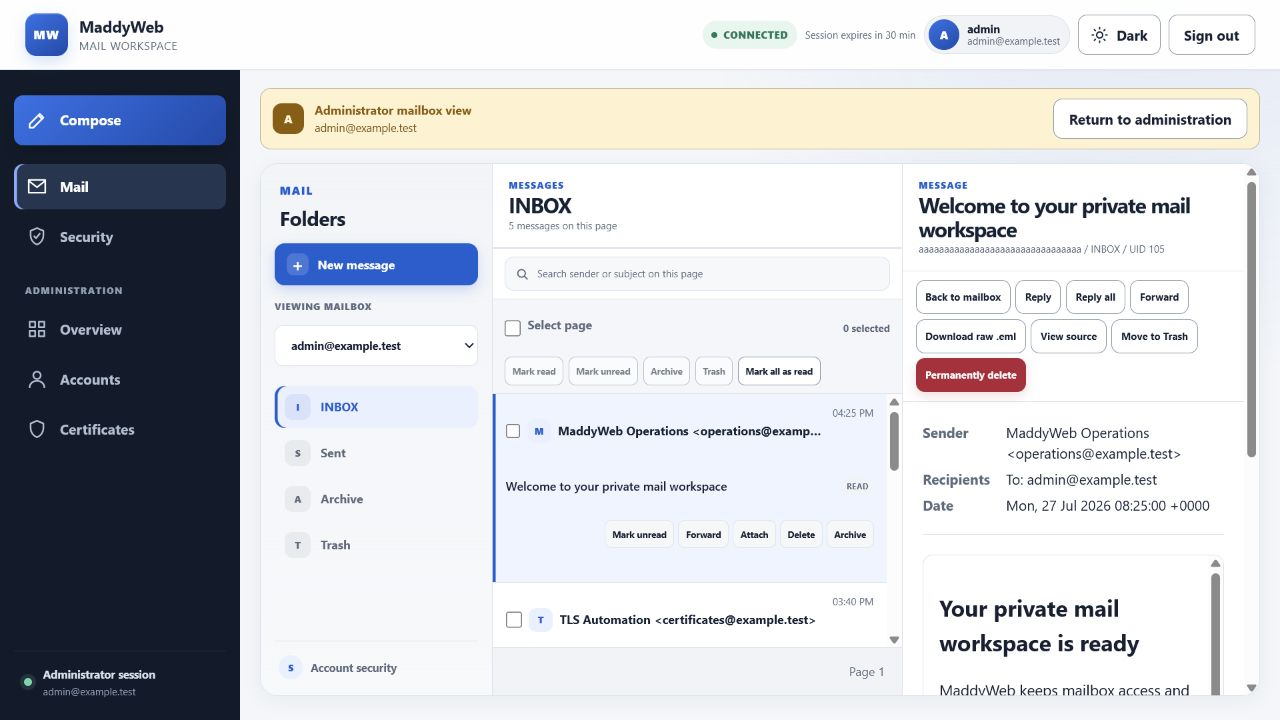
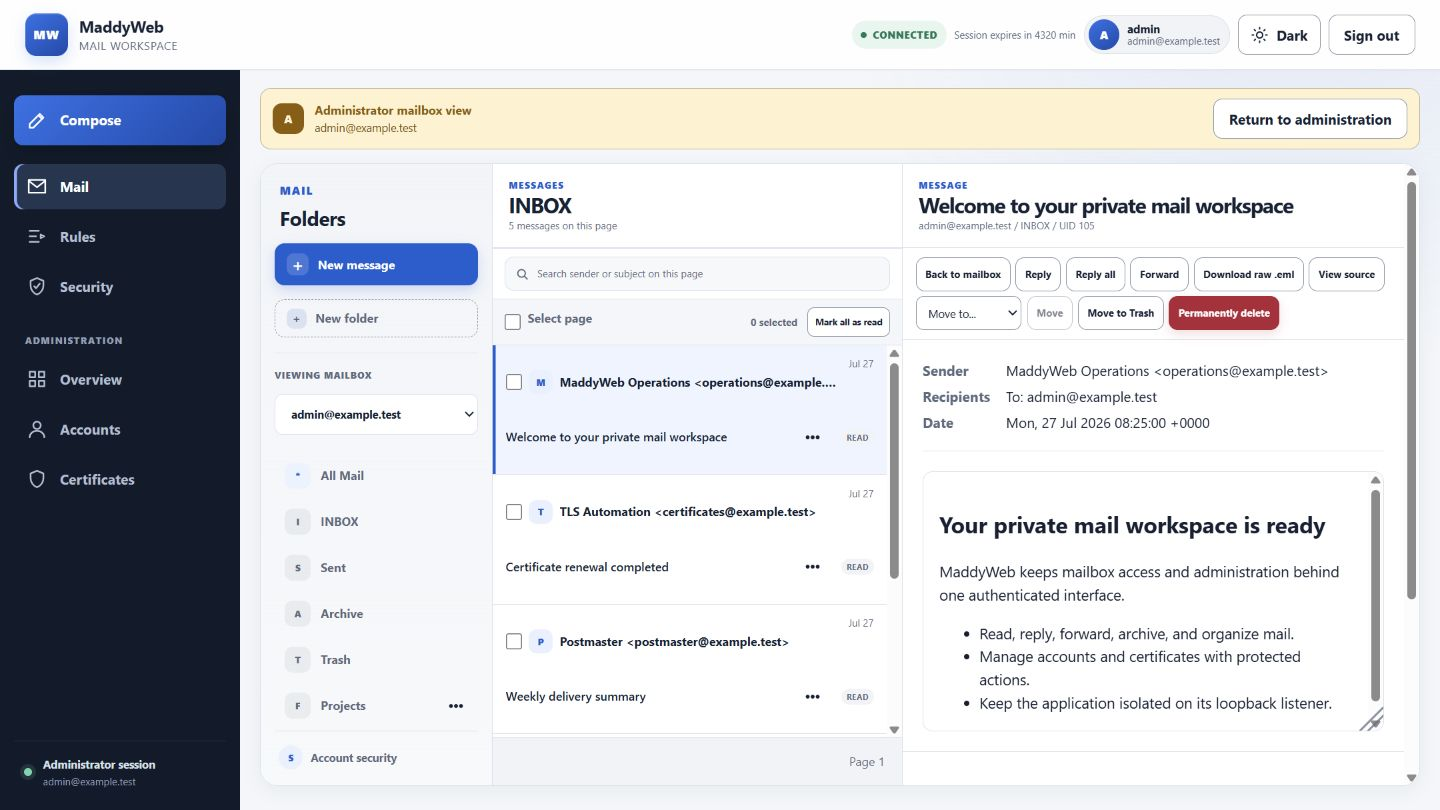
Refresh the project overview

diff --git a/README.md b/README.md
@@ -1,278 +1,96 @@
 # MaddyWeb
 
-MaddyWeb is an authenticated mail client and administration interface for
-Maddy Mail Server. It separates the unprivileged Web process from the
-restricted root helper; the two communicate only through
-`/run/maddyweb/helper.sock`. The application always listens on
-`127.0.0.1:8787`. Remote access uses either the reviewed Cloudflare-only Nginx
-edge or an optional SSH local tunnel; the application itself never binds a
-public socket.
+MaddyWeb is a lightweight browser mail client and administration console for
+[Maddy Mail Server](https://maddy.email/). It provides a three-pane mailbox,
+account and certificate administration, TOTP, Passkeys, folders, filing rules,
+and live new-mail alerts without exposing Maddy's data store directly.
 
-The project's primary constraint is "fail closed": when the version, CLI fingerprint, configuration structure, Docker
-topology, or helper health does not match a tested contract, write operations are disabled instead of guessing compatibility.
+[![MaddyWeb authenticated three-pane mail workspace](docs/assets/maddyweb-overview.png)](docs/assets/maddyweb-overview.png)
 
-[![MaddyWeb authenticated three-pane mailbox workspace](docs/assets/maddyweb-overview.png)](docs/assets/maddyweb-overview.png)
+<p align="center"><em>Mail, folders, message actions, and administration in one private workspace.</em></p>
 
-<p align="center"><em>An authenticated Thunderbird-style mailbox workspace with administration tools close at hand.</em></p>
+## Features
 
-## Default Web listener
+- Read, compose, reply, forward, move, archive, and delete mail.
+- All Mail, custom IMAP folders, page-level sender and subject filtering, bulk
+  actions, and nested filing rules.
+- Unified mailbox identity with required TOTP enrollment, recovery codes, and
+  optional discoverable Passkey sign-in.
+- User session management and five-minute re-verification for sensitive changes.
+- Administrator tools for accounts, mailboxes, certificates, and renewal status.
+- Native and existing Docker-based Maddy installations.
+- A static, dependency-free frontend with sandboxed sanitized HTML messages.
 
-MaddyWeb's default and production listener is **`127.0.0.1:8787`**. If
-`server.listen` is omitted, the application uses this value; every supplied
-configuration template also pins it explicitly. Port `8787` is the MaddyWeb
-HTTP interface, while port `1587` is the separate Maddy management Submission
-endpoint and is not a Web port.
+## Requirements
 
-The reviewed public layout is Cloudflare, a host Nginx virtual host, and this
-loopback listener. Nginx accepts only pinned Cloudflare source ranges,
-terminates HTTPS, overwrites the trusted proxy headers, and connects to
-`127.0.0.1:8787`. An SSH-only deployment may instead forward the listener:
+- Linux with systemd.
+- CPython 3.14 or free-threaded CPython 3.14t.
+- Maddy `0.8.2` or `0.9.0` through `0.9.5`.
+- An existing Maddy installation and a verified backup.
+- Docker CLI access only when managing an existing Docker Maddy container.
 
-```console
-ssh -N -L 127.0.0.1:8787:127.0.0.1:8787 admin@mail.example.net
-```
+MaddyWeb itself runs natively in a Python virtual environment. It is not
+installed inside the Maddy container.
 
-Both ends of the forwarding rule are intentionally loopback-only. Do not bind
-the service to a public address or publish port 8787 through Docker. Do not put
-it behind an arbitrary reverse proxy; use only the reviewed public-edge
-templates and checks in [docs/public-edge.md](docs/public-edge.md).
+## Network access
 
-## Browser architecture
-
-The administration console is a static single-page application: one fixed HTML shell, one local stylesheet,
-and one local vanilla JavaScript application. The Python service does not render UI pages or interpolate
-backend values into HTML. Browser state is loaded through the versioned `/api/v1` JSON API, while raw mail,
-attachments, and sanitized message HTML remain separate streaming or document responses. Sanitized message
-HTML is displayed only in an empty-sandbox iframe with a dedicated restrictive CSP.
-
-The login shell and authenticated application use separate static bundles.
-The browser obtains a process-bound CSRF token from `/api/v1/auth/csrf`,
-serializes every mutation globally, and accepts the replacement token only
-from the response header. Mutations are never retried after an ambiguous
-failure. When the server explicitly requires fresh identity verification,
-the browser repeats the protected operation once only after a successful
-Passkey or password-and-TOTP step-up. No frontend dependency, build tool,
-CDN, remote font, or external image is required.
-
-The Mail workspace also provides a merged All Mail view, user-created IMAP
-folders, single and bounded bulk moves, and ordered filing rules with nested
-AND, OR, and NOT conditions. New-mail filing uses Maddy's `imap_filter`
-command through a separate private service; an unavailable rule bridge leaves
-normal INBOX delivery intact. See
-[Mail organization and filing rules](docs/mail-organization.md) for behavior,
-bounds, and deployment details.
-
-## Unified mailbox identity
-
-There is no separate Web password. A user signs in with the full Maddy mailbox
-address or its local name, that mailbox's current Maddy password, and a Google
-Authenticator compatible TOTP code. Before authentication, the browser can load only the
-login page, its small local assets, and the authentication flow. Every mail,
-account, certificate, application asset, and business API route requires an
-active session. Public Nginx never exposes `/healthz`.
-
-After the first verified sign-in, a mailbox can register a Passkey and use
-Windows Hello, macOS Touch ID, iOS Face ID, a synced platform Passkey, or a
-security key for later sign-ins. Passkeys require user verification and are
-bound to the deployment's exact HTTPS origin and relying-party ID. Passkey
-sign-in is discoverable: the browser or authenticator presents its account
-chooser, so the login page does not request an email address first. Password
-and TOTP login remains available as a recovery path.
-
-An administrator is also a real Maddy mailbox. Only the root-only
-`maddyweb auth-role` command can assign its `admin` role; the Web interface
-cannot elevate a mailbox. Ordinary users can access only their own Mail,
-Compose, and Security workspace. Administrators can manage accounts,
-certificates, and other mailboxes, but every send still requires the current
-password of the selected sender mailbox.
-
-Accounts created in MaddyWeb receive a unique TOTP secret and ten one-time
-recovery codes, shown once to the administrator for secure handoff. An account
-created with the Maddy CLI is forced through TOTP enrollment after its first
-successful mailbox-password check. See
-[Authentication and identity operations](docs/authentication.md) for
-bootstrap, recovery, session, and external CLI identity rules.
-
-An active browser session expires after 72 hours without user activity and
-always expires after 30 days. The Security workspace lists active sessions
-and lets a user remotely revoke another browser. Password, TOTP, account,
-certificate, and permanent-message-deletion operations still require identity
-verification completed within the preceding five minutes.
-
-## Supported scope
-
-- CPython 3.14, including standard builds and free-threaded `3.14t`.
-- Exact Maddy versions: `0.8.2`, `0.9.0`, `0.9.1`, `0.9.2`, `0.9.3`,
-  `0.9.4`, and `0.9.5`.
-- Native Maddy on Linux/systemd, or an existing Docker Maddy container with a fixed name. MaddyWeb
-  itself is always installed as a native venv and systemd service, not run in a container.
-- The application entry point is always `127.0.0.1:8787`; public HTTPS is
-  supported only through the reviewed Cloudflare-only Nginx edge.
-
-Maddy `0.8.2` does not have a `verify-config` subcommand. MaddyWeb never invokes it for that version
-because the old release sends unknown subcommands through the implicit server-run path. Any change affecting listening endpoints on
-`0.8.2` requires explicit acceptance of a brief restart outage.
-
-## Process boundaries
-
-| Component | Identity and entry point | Permission scope |
-| --- | --- | --- |
-| Web | `maddyweb` user, `127.0.0.1:8787` | UI, sessions, and validation; cannot see the Docker socket |
-| helper | root, Unix socket `0660 root:maddyweb` | Fixed allow-listed Maddy, SMTP, certificate, and systemd operations |
-| delivery filter | `maddyweb-filter` user, private TCP `18787` | Reads immutable rule snapshots; cannot read authentication or mail storage |
-| Maddy | Native service or existing Docker container | Mail data, credentials, mailboxes, messages, and TLS files |
-
-Passwords pass briefly only through stdin for a required invocation or through the local Unix socket; they never enter command lines,
-environment variables, logs, or audit records. The core application installer
-and mail-certificate helper do not accept password arguments, edit Nginx
-configuration, or reload Nginx; that helper may perform only the read-only
-`nginx -t` configuration check. The public edge is a separate reviewed
-operator workflow: it installs only its managed virtual-host assets, validates
-the owning Nginx configuration, and reloads that existing owner. Its dedicated
-Web-certificate renewal unit repeats validation and reloads only the same
-owner after renewal. Before every mail-certificate write, the helper
-reparses the allow-listed lineage and invokes Certbot only when the authenticator is `webroot` and the installer is
-`none`, with no lineage hooks. The `nginx`, `standalone`, and `manual`
-authenticators and DNS plugins all degrade to read-only. Direct invocations always use an empty CLI configuration and
-`--no-directory-hooks`, and require the system and root XDG default `cli.ini` files to be absent, preventing
-ConfigArgParse from merging default configuration or inheriting arbitrary hooks.
-A supported webroot must be a canonical, root-owned directory below `/var/www` or `/srv/www` that
-group and other users cannot write. The managed systemd drop-in grants write access only to exact roots
-explicitly listed in `certificates.webroot_roots`. The default empty list grants no webroot write access, so even when certificate
-status is readable, Certbot write controls remain read-only. Writes additionally require the renewal file and actual runtime
-Certbot to be in the audited `1.0.0`-`5.7.0` range; unknown options and higher versions are always read-only.
-
-When certificate management is enabled, the installer transactionally manages the Certbot deploy hook
-`/etc/letsencrypt/renewal-hooks/deploy/maddyweb`. It accepts only the exact lineage corresponding to an allow-listed name,
-reuses the existing atomic certificate deployment workflow, reloads Maddy, and reads the fingerprint back;
-it never issues certificates, forces renewal, or modifies or reloads Nginx. Because a Certbot directory hook is global,
-other certificates under the same canonical live root that are not allow-listed safely become no-ops, avoiding interference with their
-renewal; malformed or escaping paths still fail with a nonzero status. An unmanaged hook with the same name is never overwritten or deleted.
-
-The Web interface can inspect or disable an existing renewal timer, but it does not re-enable an external Certbot timer. An external unit
-may scan lineages outside the allow-list or inherit drop-ins and hooks, so a single invocation's fixed argv cannot constrain it.
-Enable fails closed until a dedicated managed renewal service is implemented. The page still displays certificates, fingerprints, and
-timer status; unsafe lineages do not display dry-run or renewal write controls.
-
-Docker SMTP never uses a Docker port publication. Before every send, the
-helper uses only the fixed local Docker socket to inspect the configured name,
-requires a running unpaused container with the configured network scope and
-safe port metadata, validates the exact IPv4 listener in both container and
-host socket tables, and pins the resulting full container ID. Only then does
-it run `docker --host=unix:///var/run/docker.sock exec -i <validated-id> /usr/bin/nc 127.0.0.1 1587`
-to connect to the authenticated loopback
-Submission endpoint. The default
-`maddy.docker_submission_scope = "container"` requires an isolated container
-network namespace and leaves no host listener. Existing host-network Maddy
-containers require the explicit `"host-loopback"` scope; that mode permits
-exactly one host listener at `127.0.0.1:1587` and rejects wildcard, IPv6, and
-duplicate listeners.
-
-Docker `/data` supports both bind mounts and exclusive local named volumes. Named-volume
-configuration editing neither reads nor guesses Docker daemon internal paths. Dry-run is read-only; apply uses a one-shot
-helper with no network to atomically replace the fixed `/data/maddy.conf` in the same directory, with the full container
-ID, content hash, owner and mode, and failure rollback gates protecting the transaction.
-
-## Development
-
-```console
-uv sync --python 3.14
-uv run pytest -q
-uv run ruff check .
-```
-
-On an isolated WSL Docker host with the locked Maddy 0.8.2 image already
-available and host port 1587 free, run the real host-network Submission gate:
-
-```console
-sudo bash tests/integration/test-host-network-submission.sh \
-  "$(pwd)" "$(pwd)/.venv/bin/python"
-```
-
-Command entry points:
-
-```console
-uv run python -m maddyweb --help
-uv run python -m maddyweb serve --config deploy/examples/config.native.toml
-uv run python -m maddyweb helper --config deploy/examples/config.native.toml
-```
-
-The example configurations contain production-safe defaults, but refer to real `/etc/maddy`,
-`/etc/letsencrypt`, and `/run` paths. Do not treat them as demo environments that work without prepared dependencies.
-All three templates explicitly set `server.request_body_timeout_seconds = 15`; the deployment validator
-accepts only 1..120 seconds, and a timeout aborts a slow or stalled request-body read.
-
-## Deployment entry point
-
-Every change script defaults to dry-run. Production `--apply` additionally requires:
-
-1. An explicit `--host` value that must equal the current `hostname`;
-2. A validated local wheel, full Git commit, SHA-256, and offline wheelhouse;
-3. A one-time root approval generated after the operator types a host-bound confirmation phrase in a TTY;
-4. Use of the approval within ten minutes, with consumption before any change.
-
-Start with the [deployment guide](docs/deployment.md), and use
-the [operations runbook](docs/runbook.md) for routine work. Read
-[Authentication and identity operations](docs/authentication.md) before
-creating or importing accounts, use the
-[Cloudflare public-edge runbook](docs/public-edge.md) for public HTTPS, see
-[mail organization and filing rules](docs/mail-organization.md) for folders and
-delivery-time filtering, see
-the [compatibility matrix](docs/compatibility.md) for version differences, and
-read [SECURITY.md](SECURITY.md) for the security model.
-
-The security release gates cover MaddyWeb's production Python dependencies, source, root helper, secrets,
-configuration, and parsers. The official Maddy binary or image remains a separate upstream component and continues to be scanned against its exact digest
-and publicly reported, but its vulnerabilities do not block a MaddyWeb release; the version and CLI fingerprints and seven-version functional matrix remain
-mandatory. For the detailed scope and current informational findings, see
-[MaddyWeb security gates and Maddy upstream findings](docs/security-gates.md).
-
-Common configuration templates:
-
-- Native Linux: `deploy/examples/config.native.toml`
-- systemd WSL: `deploy/examples/config.wsl.toml`
-- Docker management mode: `docker/config.toml`
-
-Paths in production configuration must be conservative, normalized absolute Linux paths; the installer uses them to generate a systemd
-drop-in whose dynamic entries include only the Web temporary directory and the Maddy or certificate paths actually required by the current mode.
-Changes to managed drop-ins and hooks participate in installation rollback together with the release symlink and units. See the deployment guide for the complete
-path rules and directory prerequisites.
-
-## Optional SSH-only access
-
-For a deployment that does not enable the public edge, verify the server host
-key independently, then establish local forwarding from the administrator
-workstation:
+MaddyWeb listens on **`127.0.0.1:8787`** by default and rejects non-loopback
+addresses. Supported remote access uses either the reviewed Cloudflare/Nginx
+edge or an SSH tunnel:
 
 ```console
 ssh -o ExitOnForwardFailure=yes -o StrictHostKeyChecking=yes \
   -N -L 127.0.0.1:8787:127.0.0.1:8787 admin@mail.example.net
 ```
 
-Then access only `http://localhost:8787/`; the `localhost` origin is required
-for the Secure, `__Host-` authentication cookies. Authentication remains
-mandatory through the tunnel. Do not add a `0.0.0.0:8787` listener, Docker
-port publishing, or a public firewall rule. For Internet access, use the
-reviewed public edge rather than improvising a proxy.
+Do not publish port `8787`, bind it to `0.0.0.0`, or place it behind an
+unreviewed public proxy. See the [public-edge guide](docs/public-edge.md) for
+Internet-facing deployments.
 
-## Compatibility verification
+## Development
 
-The WSL container matrix uses immutable image digests from `tests/integration/maddy-image-lock.json`.
-Image pulls are denied by default; only an explicit `-AllowImagePull` permits pulling those locked
-references.
-
-```powershell
-./tests/integration/maddy-wsl-matrix.ps1 `
-  -Distro Ubuntu `
-  -Mode Container
+```console
+uv sync --python 3.14 --extra dev --extra browser
+uv run pytest -q
+uv run ruff check .
+uv run python -m maddyweb --help
 ```
 
-For all seven versions, the matrix exercises real CLI fingerprint detection, account and password changes, APPENDLIMIT,
-rejection of SMTP AUTH with a wrong password, local SMTP delivery with the correct password, and mailbox and message
-add/list/dump/move/remove operations, plus certificate deploy/status/fault-injection rollback. Fixtures use
-an internal Docker network, one-shot volumes, and random accounts, and are unconditionally cleaned up on exit.
+The example configurations reference real Maddy and system paths; they are not
+standalone demos. Production installation requires a prepared configuration,
+wheel, and offline wheelhouse. Start with the
+[deployment guide](docs/deployment.md).
 
-A successful `GET /healthz` response contains exactly `status`, `version`, `maddy_version`,
-`maddy_write_enabled`, `storage_available`, `certbot_available`,
-and `certificate_management_enabled`. It returns HTTP 200 with `status="ok"` only when the helper is reachable, the Maddy version and CLI contract are
-supported, and storage is available. Otherwise it returns HTTP 503 with a degraded status.
+## Configuration
+
+- Native Maddy: [`deploy/examples/config.native.toml`](deploy/examples/config.native.toml)
+- Docker management: [`docker/config.toml`](docker/config.toml)
+- WSL testing: [`deploy/examples/config.wsl.toml`](deploy/examples/config.wsl.toml)
+
+An unsupported Maddy version, CLI fingerprint, helper state, or deployment
+topology disables write operations instead of guessing compatibility.
+
+## Security boundary
+
+- The Web process runs without privileges and cannot access the Docker socket.
+- Fixed privileged operations pass through a restricted root helper over a
+  local Unix socket.
+- Mailbox credentials establish the Web identity and TOTP enrollment is
+  required; registered Passkeys provide discoverable passwordless sign-in.
+- Message HTML is sanitized and displayed in a sandboxed iframe with a separate
+  restrictive CSP.
+- Sessions expire after 72 hours of inactivity and after 30 days absolutely;
+  sensitive operations require verification completed within five minutes.
+
+Read [SECURITY.md](SECURITY.md) for the complete trust model and disclosure
+process.
+
+## Documentation
+
+- [Deployment guide](docs/deployment.md)
+- [Operations runbook](docs/runbook.md)
+- [Authentication and identity](docs/authentication.md)
+- [Cloudflare public edge](docs/public-edge.md)
+- [Mail organization and filing rules](docs/mail-organization.md)
+- [Compatibility matrix](docs/compatibility.md)
+- [Security gates](docs/security-gates.md)
